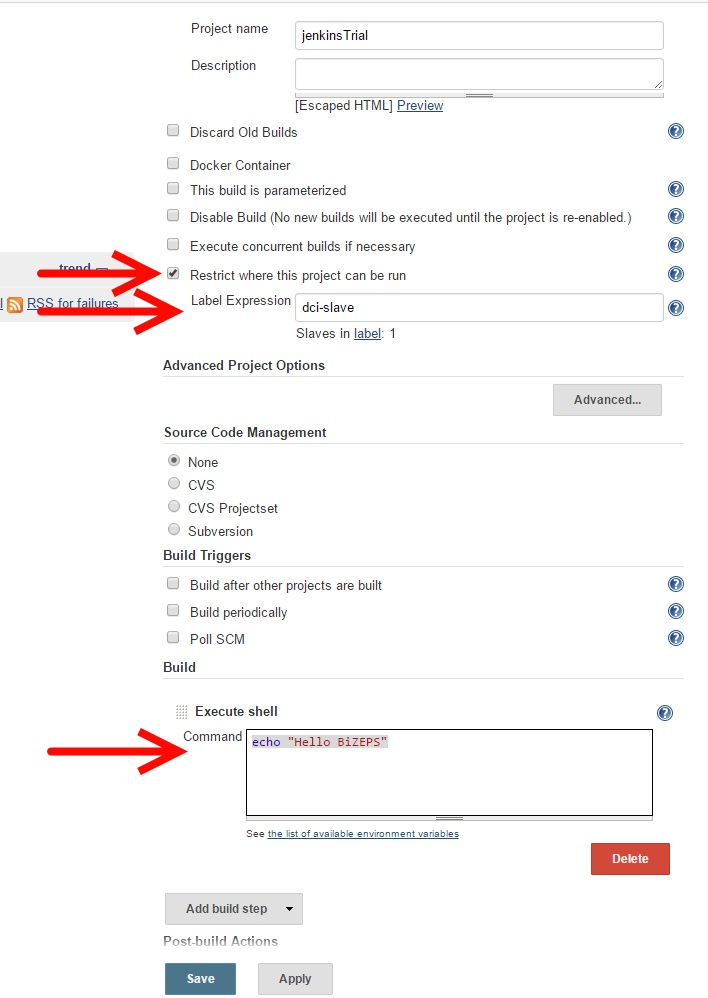
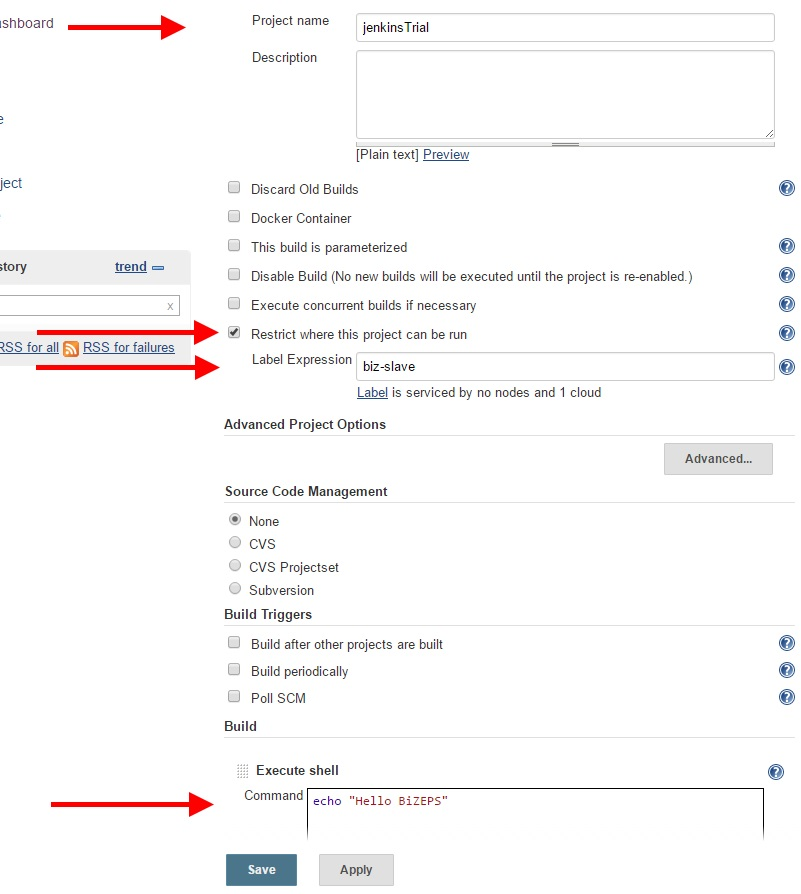
Doc: Updated QuickStartGuide

diff --git a/doc/QuickStartGuide.md b/doc/QuickStartGuide.md
@@ -28,21 +28,35 @@ Execute the following commands in the Docker Quickstart Terminal.
   - `cd dev`
 - Clone the repository
   - `git clone https://github.com/Zuehlke/BiZEPS.git`
+- Optional: Prepare the TLS certificates
+  - The docker daemon secures its REST API interface with TLS certificates (by default)
+  - Docker machine provides the certificates under `<user_home>/.docker/machine/certs`
+  - Certificates: 'ca.pem', 'ca-key.pem', 'cert.pem' and 'key.pem'
+  - Copy them to the directory `./BiZEPS/buildServer/jenkins/masterCerts/certs/`
 - Create the BiZEPS images
-  - `cd BiZEPS/jenkins`
-  - `./buildBiZEPS.sh`
+  - `cd BiZEPS/buildServer/jenkins`
+  - `./buildImage.sh`
 
 ##  Start Jenkins
 As soon as the images are created you are able to start and use the Jenkins server.
 
 - Start the Jenkins Server
-  - `./jenkinsStart.sh`
+  - `./createStartContainer.sh`
 - Check the IP of the Docker VM
   - The IP is printed out when the docker console starts
   - Or `docker-machine url` will print the IP address of the VM
 - Connect to the started Jenkins with your web browser
   - For example `http://192.168.99.100:8080`
+  
+##  Prepare Credentials
+Check the credentials to access the docker daemon:
+- Select `Credentials/Global credentials/Add Credentials`
+  - Kind: `Docker Certificates Directory`
+  - Description: `Docker Daemon TLS`
+  - Path `/var/certs/localDockerDaemon`
 
+[!Credentials](Images/Credentials_01.jpg)
+  
 ##  Prepare the Jenkins Docker Plug In
 Once Jenkins is started, the Docker plug in can be configured.
 
@@ -53,14 +67,15 @@ At the bottom of the configuration page click `Add a new cloud` and select `Dock
 ![Step 1](Images/DockerPlugin_01.jpg)
 
 ### Connection to Docker API
-Give your Docker cloud a name and add the Docker URL `unix:///var/run/docker.sock`.
+Give your Docker cloud a name and add the Docker URL
+(the IP of the host where the docker daemon exposes its REST API, e.g. `tcp://192.168.99.100:2376`).
 With `Test Connection` you can verify that the Docker plug in can communicate with the Docker API.
 
 ![Step 2](Images/DockerPlugin_02.jpg)
 
 ### Add a New Docker Template
 At images click `Add Docker Template` and select `Docker Template`.
-Write `dci/jenkinsslave` in the text box `Docker Image` and define the Label with `dci-slave`.
+Write `biz/jenkinsslave` in the text box `Docker Image` and define the Label with `biz-slave`.
 Add new Cridentials of the Kind `Username with password` and at `Global` scope.
 Use `jenkins` as username and password.
 
@@ -69,7 +84,7 @@ Use `jenkins` as username and password.
 ##  Create a New Job
 At the main page of Jenkins select `create new jobs`, select `Freesyle project` and think out a nice name.
 On the next page make sure that `Restrict where this project can be run` is checked and
-select `dci-slave` as `Label Expression`.
+select `biz-slave` as `Label Expression`.
 In the section `Build` click `Add build step`, select `Execute shell` and
 write a test command into the text box.
 For example `echo "Hello BiZEPS"`.
